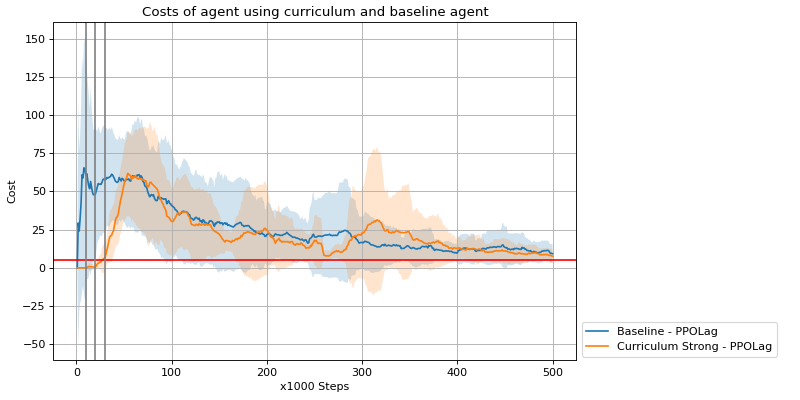
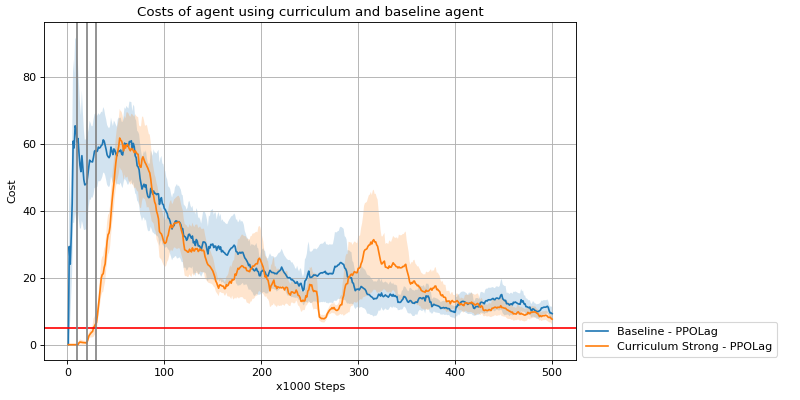
Implement standard error

diff --git a/main.py b/main.py
@@ -100,7 +100,7 @@ def train_agent(agent, episodes = 1, render_episodes = 1, make_videos = False, e
         agent.render(num_episodes=render_episodes, render_mode='rgb_array', width=256, height=256, 
                      epochs_to_render=epochs_to_render)
 
-def plot_train(folder, curr_changes, cost_limit, include_weak=False):
+def plot_train(folder, curr_changes, cost_limit, repetitions, include_weak=False, use_std=False):
     # Get folder names for all algorithms
     baseline_dir = "app/results/" + folder + "/baseline"
     curr_dir = "app/results/" + folder + "/curriculum"
@@ -157,24 +157,57 @@ def plot_train(folder, curr_changes, cost_limit, include_weak=False):
         if len(means_baseline['rewards']) == 0:
             means_baseline['rewards'] = baseline_rewards_mean[algorithm_name]
         plt.plot(np.arange(1, len(baseline_rewards_mean[algorithm_name]) + 1), baseline_rewards_mean[algorithm_name], label="Baseline - " + algorithm_name.split('-')[0])
-        plt.fill_between(x=np.arange(1, len(baseline_rewards_mean[algorithm_name]) + 1),
+        if use_std:
+            plt.fill_between(x=np.arange(1, len(baseline_rewards_mean[algorithm_name]) + 1),
                         y1=baseline_rewards_mean[algorithm_name] - baseline_rewards_std[algorithm_name],
-                        y2=baseline_rewards_mean[algorithm_name] + baseline_rewards_std[algorithm_name], alpha=0.2)
+                        y2=baseline_rewards_mean[algorithm_name] + baseline_rewards_std[algorithm_name], 
+                        alpha=0.2)
+        else:
+            # Use standard error
+            plt.fill_between(x=np.arange(1, len(baseline_rewards_mean[algorithm_name]) + 1),
+                        y1=np.asarray(baseline_rewards_mean[algorithm_name]) - (np.asarray(baseline_rewards_std[algorithm_name]) / 
+                                                                    (repetitions ** 0.5)),
+                        y2=np.asarray(baseline_rewards_mean[algorithm_name]) + (np.asarray(baseline_rewards_std[algorithm_name]) / 
+                                                                    (repetitions ** 0.5)), 
+                        alpha=0.2)
 
     # Plot curriculum rewards
     for algorithm_name in curr_rewards_mean.keys():
         if len(means_curr['rewards']) == 0:
             means_curr['rewards'] = curr_rewards_mean[algorithm_name]
         plt.plot(np.arange(1, len(curr_rewards_mean[algorithm_name]) + 1), curr_rewards_mean[algorithm_name], label="Curriculum Strong - " + algorithm_name.split('-')[0])
-        plt.fill_between(x=np.arange(1, len(curr_rewards_mean[algorithm_name]) + 1),
+        if use_std:
+            plt.fill_between(x=np.arange(1, len(curr_rewards_mean[algorithm_name]) + 1),
                         y1=curr_rewards_mean[algorithm_name] - curr_rewards_std[algorithm_name],
-                        y2=curr_rewards_mean[algorithm_name] + curr_rewards_std[algorithm_name], alpha=0.2)
+                        y2=curr_rewards_mean[algorithm_name] + curr_rewards_std[algorithm_name], 
+                        alpha=0.2)
+        else:
+            # Use standard error
+            plt.fill_between(x=np.arange(1, len(curr_rewards_mean[algorithm_name]) + 1),
+                        y1=np.asarray(curr_rewards_mean[algorithm_name]) - (np.asarray(curr_rewards_std[algorithm_name]) / 
+                                                                    (repetitions ** 0.5)),
+                        y2=np.asarray(curr_rewards_mean[algorithm_name]) + (np.asarray(curr_rewards_std[algorithm_name]) / 
+                                                                    (repetitions ** 0.5)), 
+                        alpha=0.2)
 
         if include_weak:
             plt.plot(np.arange(1, len(curr_rewards_mean[algorithm_name]) + 1 - last_change), curr_rewards_mean[algorithm_name][last_change:], label="Curriculum Weak - " + algorithm_name.split('-')[0])
-            plt.fill_between(x=np.arange(1, len(curr_rewards_mean[algorithm_name]) + 1 - last_change),
-                            y1=(curr_rewards_mean[algorithm_name] - curr_rewards_std[algorithm_name])[last_change:],
-                            y2=(curr_rewards_mean[algorithm_name] + curr_rewards_std[algorithm_name])[last_change:], alpha=0.2)
+            if use_std:
+                plt.fill_between(x=np.arange(1, len(curr_rewards_mean[algorithm_name]) + 1),
+                            y1=curr_rewards_mean[algorithm_name] - curr_rewards_std[algorithm_name],
+                            y2=curr_rewards_mean[algorithm_name] + curr_rewards_std[algorithm_name], 
+                            alpha=0.2)
+            else:
+                # Use standard error
+                plt.fill_between(x=np.arange(1, len(curr_rewards_mean[algorithm_name]) + 1),
+                            y1=(np.asarray(curr_rewards_mean[algorithm_name]) - (np.asarray(curr_rewards_std[algorithm_name]) / 
+                                                                        (repetitions ** 0.5)))[last_change:],
+                            y2=(np.asarray(curr_rewards_mean[algorithm_name]) + (np.asarray(curr_rewards_std[algorithm_name]) / 
+                                                                        (repetitions ** 0.5)))[last_change:], 
+                            alpha=0.2)
+            # plt.fill_between(x=np.arange(1, len(curr_rewards_mean[algorithm_name]) + 1 - last_change),
+            #                 y1=(curr_rewards_mean[algorithm_name] - curr_rewards_std[algorithm_name])[last_change:],
+            #                 y2=(curr_rewards_mean[algorithm_name] + curr_rewards_std[algorithm_name])[last_change:], alpha=0.2)
 
     for change in curr_changes:
         plt.axvline(x=change, color="gray", linestyle='-')
@@ -196,24 +229,57 @@ def plot_train(folder, curr_changes, cost_limit, include_weak=False):
         if len(means_baseline['costs']) == 0:
             means_baseline['costs'] = baseline_costs_mean[algorithm_name]
         plt.plot(np.arange(1, len(baseline_costs_mean[algorithm_name]) + 1), baseline_costs_mean[algorithm_name], label="Baseline - " + algorithm_name.split('-')[0])
-        plt.fill_between(x=np.arange(1, len(baseline_costs_mean[algorithm_name]) + 1),
+        if use_std:
+            plt.fill_between(x=np.arange(1, len(baseline_costs_mean[algorithm_name]) + 1),
                         y1=baseline_costs_mean[algorithm_name] - baseline_costs_std[algorithm_name],
-                        y2=baseline_costs_mean[algorithm_name] + baseline_costs_std[algorithm_name], alpha=0.2)
+                        y2=baseline_costs_mean[algorithm_name] + baseline_costs_std[algorithm_name], 
+                        alpha=0.2)
+        else:
+            # Use standard error
+            plt.fill_between(x=np.arange(1, len(baseline_costs_mean[algorithm_name]) + 1),
+                        y1=np.asarray(baseline_costs_mean[algorithm_name]) - (np.asarray(baseline_costs_std[algorithm_name]) / 
+                                                                    (repetitions ** 0.5)),
+                        y2=np.asarray(baseline_costs_mean[algorithm_name]) + (np.asarray(baseline_costs_std[algorithm_name]) / 
+                                                                    (repetitions ** 0.5)), 
+                        alpha=0.2)
 
     # Plot curriculum costs
     for algorithm_name in curr_costs_mean.keys():
         if len(means_curr['costs']) == 0:
             means_curr['costs'] = curr_costs_mean[algorithm_name]
         plt.plot(np.arange(1, len(curr_costs_mean[algorithm_name]) + 1), curr_costs_mean[algorithm_name], label="Curriculum Strong - " + algorithm_name.split('-')[0])
-        plt.fill_between(x=np.arange(1, len(curr_costs_mean[algorithm_name]) + 1),
+        if use_std:
+            plt.fill_between(x=np.arange(1, len(curr_costs_mean[algorithm_name]) + 1),
                         y1=curr_costs_mean[algorithm_name] - curr_costs_std[algorithm_name],
-                        y2=curr_costs_mean[algorithm_name] + curr_costs_std[algorithm_name], alpha=0.2)
+                        y2=curr_costs_mean[algorithm_name] + curr_costs_std[algorithm_name], 
+                        alpha=0.2)
+        else:
+            # Use standard error
+            plt.fill_between(x=np.arange(1, len(curr_costs_mean[algorithm_name]) + 1),
+                        y1=np.asarray(curr_costs_mean[algorithm_name]) - (np.asarray(curr_costs_std[algorithm_name]) / 
+                                                                    (repetitions ** 0.5)),
+                        y2=np.asarray(curr_costs_mean[algorithm_name]) + (np.asarray(curr_costs_std[algorithm_name]) / 
+                                                                    (repetitions ** 0.5)), 
+                        alpha=0.2)
 
         if include_weak:
             plt.plot(np.arange(1, len(curr_costs_mean[algorithm_name]) + 1 - last_change), curr_costs_mean[algorithm_name][last_change:], label="Curriculum Weak - " + algorithm_name.split('-')[0])
-            plt.fill_between(x=np.arange(1, len(curr_costs_mean[algorithm_name]) + 1 - last_change),
-                            y1=(curr_costs_mean[algorithm_name] - curr_costs_std[algorithm_name])[last_change:],
-                            y2=(curr_costs_mean[algorithm_name] + curr_costs_std[algorithm_name])[last_change:], alpha=0.2)
+            if use_std:
+                plt.fill_between(x=np.arange(1, len(curr_costs_mean[algorithm_name]) + 1),
+                            y1=curr_costs_mean[algorithm_name] - curr_costs_std[algorithm_name],
+                            y2=curr_costs_mean[algorithm_name] + curr_costs_std[algorithm_name], 
+                            alpha=0.2)
+            else:
+                # Use standard error
+                plt.fill_between(x=np.arange(1, len(curr_costs_mean[algorithm_name]) + 1),
+                            y1=(np.asarray(curr_costs_mean[algorithm_name]) - (np.asarray(curr_costs_std[algorithm_name]) / 
+                                                                        (repetitions ** 0.5)))[last_change:],
+                            y2=(np.asarray(curr_costs_mean[algorithm_name]) + (np.asarray(curr_costs_std[algorithm_name]) / 
+                                                                        (repetitions ** 0.5)))[last_change:], 
+                            alpha=0.2)
+            # plt.fill_between(x=np.arange(1, len(curr_costs_mean[algorithm_name]) + 1 - last_change),
+            #                 y1=(curr_costs_mean[algorithm_name] - curr_costs_std[algorithm_name])[last_change:],
+            #                 y2=(curr_costs_mean[algorithm_name] + curr_costs_std[algorithm_name])[last_change:], alpha=0.2)
 
     plt.axhline(y=cost_limit, color='r', linestyle='-')
 
@@ -232,7 +298,7 @@ def plot_train(folder, curr_changes, cost_limit, include_weak=False):
 
     return means_baseline, means_curr
 
-def plot_eval(folder, curr_changes, cost_limit):
+def plot_eval(folder, curr_changes, cost_limit, repetitions, eval_episodes, use_std = False):
     def extract_values(pattern, text):
         return [float(match.group(1)) for match in re.finditer(pattern, text)]
 
@@ -313,9 +379,17 @@ def plot_eval(folder, curr_changes, cost_limit):
             if len(means_baseline[data_type]) == 0:
                 means_baseline[data_type] = sorted_means
             plt.plot(sorted_indices, sorted_means, label=f"Baseline - {algorithm_name.split('-')[0]}")
-            plt.fill_between(x=sorted_indices,
+            if use_std:
+                plt.fill_between(x=sorted_indices,
                             y1=np.asarray(sorted_means) - np.asarray(sorted_stds),
-                            y2=np.asarray(sorted_means) + np.asarray(sorted_stds), alpha=0.2)
+                            y2=np.asarray(sorted_means) + np.asarray(sorted_stds), 
+                            alpha=0.2)
+            else:
+                # Use standard error
+                plt.fill_between(x=sorted_indices,
+                            y1=np.asarray(sorted_means) - (np.asarray(sorted_stds) / ((repetitions * eval_episodes) ** 0.5)),
+                            y2=np.asarray(sorted_means) + (np.asarray(sorted_stds) / ((repetitions * eval_episodes) ** 0.5)), 
+                            alpha=0.2)
 
         for algorithm_name in eval(f"curr_{data_type}_mean").keys():
             sorted_values = sorted(zip(indices, eval(f"curr_{data_type}_mean")[algorithm_name], eval(f"curr_{data_type}_std")[algorithm_name]))
@@ -323,9 +397,17 @@ def plot_eval(folder, curr_changes, cost_limit):
             if len(means_curr[data_type]) == 0:
                 means_curr[data_type] = sorted_means
             plt.plot(sorted_indices, sorted_means, label=f"Curriculum Strong - {algorithm_name.split('-')[0]}")
-            plt.fill_between(x=sorted_indices,
+            if use_std:
+                plt.fill_between(x=sorted_indices,
                             y1=np.asarray(sorted_means) - np.asarray(sorted_stds),
-                            y2=np.asarray(sorted_means) + np.asarray(sorted_stds), alpha=0.2)
+                            y2=np.asarray(sorted_means) + np.asarray(sorted_stds), 
+                            alpha=0.2)
+            else:
+                # Use standard error
+                plt.fill_between(x=sorted_indices,
+                            y1=np.asarray(sorted_means) - (np.asarray(sorted_stds) / ((repetitions * eval_episodes) ** 0.5)),
+                            y2=np.asarray(sorted_means) + (np.asarray(sorted_stds) / ((repetitions * eval_episodes) ** 0.5)), 
+                            alpha=0.2)
 
         if data_type == 'costs':
             plt.axhline(y=cost_limit, color='r', linestyle='-')
@@ -440,6 +522,6 @@ if __name__ == '__main__':
 
         # Plot the results
         curr_changes = [10, 20, 30]
-        means_baseline, means_curr = plot_train(folder_name, curr_changes, cost_limit, include_weak=False)
-        eval_means_baseline, eval_means_curr = plot_eval(folder_name, curr_changes, cost_limit)
+        means_baseline, means_curr = plot_train(folder_name, curr_changes, cost_limit, repetitions, include_weak=False)
+        eval_means_baseline, eval_means_curr = plot_eval(folder_name, curr_changes, cost_limit, repetitions, eval_episodes)
         print_eval(folder_name, means_baseline, means_curr, eval_means_baseline, eval_means_curr)
